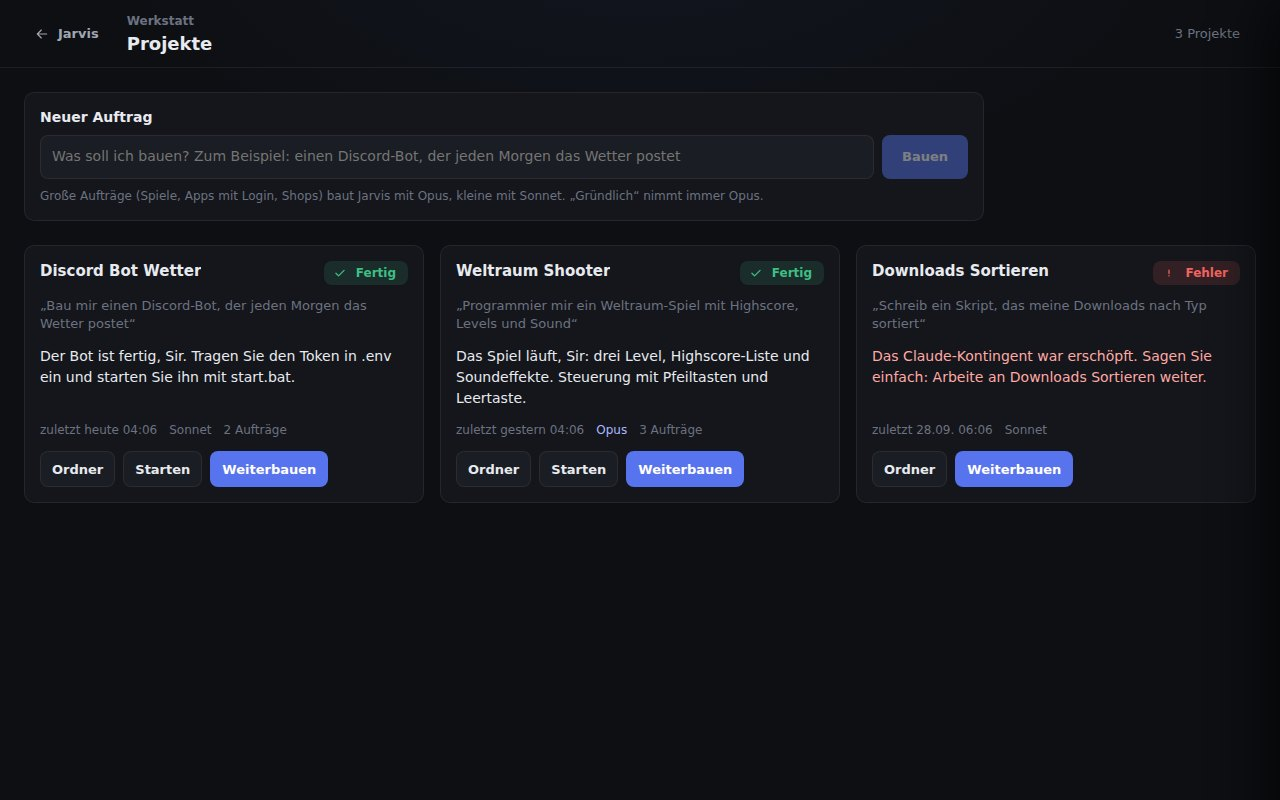
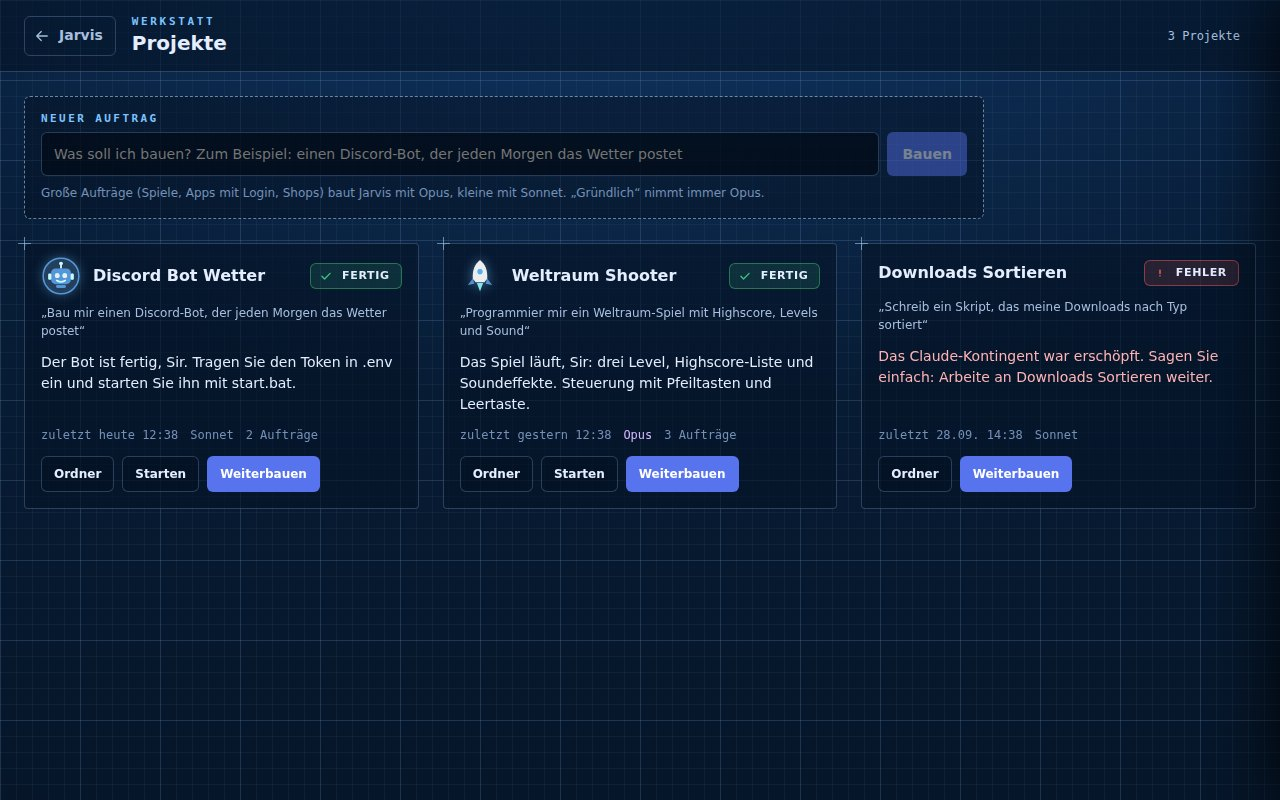
Anleitung, README und Bilder auf dem neuen Stand
- Bilder neu: Hauptfenster ohne die alten Karten Post und Shop, Verbinden
  mit Handy, Alexa und Konnektoren (ohne Discord-Bot), Werkstatt mit dem
  Hologramm, Projekte mit Logos, Einrichtung mit lokaler Stimme.
- Anleitung und README beschreiben die Werkstatt als Blaupause mit Hologramm
  und dem Logo, das die Werkstatt pro Projekt zeichnet.
- Einrichtung: Der letzte Schritt nennt statt des Discord-Bots die
  Konnektoren, und der Stimmen-Schritt duzt wie der Rest der Einrichtung.

Claude-Session: https://claude.ai/code/session_01SmtJ1qc8wnYu9sLYM9z56c

diff --git a/jarvis/gui/web/setup.html b/jarvis/gui/web/setup.html
@@ -195,7 +195,7 @@
                 <span class="key-ico" aria-hidden="true"><svg class="ico" viewBox="0 0 24 24"><rect x="6" y="6" width="12" height="12" rx="2"/><path d="M9 2.5v3.5M15 2.5v3.5M9 18v3.5M15 18v3.5M2.5 9H6M2.5 15H6M18 9h3.5M18 15h3.5"/></svg></span>
                 <span class="key-text">
                   <b>Jarvis-Stimme auf diesem PC</b>
-                  <small>Deutsche Stimme und Spracherkennung laufen ganz auf Ihrem PC: kein Abo, kein Internet nötig, nichts verlässt den PC.</small>
+                  <small>Deutsche Stimme und Spracherkennung laufen ganz auf deinem PC: kein Abo, kein Internet nötig, nichts verlässt den PC.</small>
                 </span>
                 <span class="key-state" id="localState"></span>
               </div>
@@ -330,7 +330,7 @@
         <section class="step" data-step="done" hidden>
           <div class="summary" id="summary"></div>
           <p class="note">Sag „Hey Jarvis“, warte auf den Ton und sprich deinen Befehl. Oder klick auf die Kugel im Jarvis-Fenster. Tippen geht auch.</p>
-          <p class="note">Als Nächstes: Im Jarvis-Fenster oben rechts unter „Verbinden“ koppelst du dein Handy per QR-Code, richtest Alexa ein („Alexa, sag Jarvis, …“) und holst Jarvis' Bot auf deinen Discord-Server.</p>
+          <p class="note">Als Nächstes: Im Jarvis-Fenster oben rechts unter „Verbinden“ koppelst du dein Handy per QR-Code, richtest Alexa ein („Alexa, sag Jarvis, …“) und siehst, welche Konnektoren (Gmail, Kalender, Spotify …) Jarvis über dein Claude-Konto nutzt.</p>
         </section>
       </div>
 

diff --git a/jarvis/gui/web/setup.js b/jarvis/gui/web/setup.js
@@ -606,7 +606,7 @@
     btn.textContent = L.busy ? 'Wird eingerichtet …' : L.error ? 'Nochmal versuchen' : 'Lokal einrichten';
     if (L.error) formMsg('localMsg', 'error', L.error);
     else if (L.busy) formMsg('localMsg', 'info', L.line || 'Lädt …');
-    else if (L.ready) formMsg('localMsg', 'ok', L.active ? 'Jarvis spricht mit der lokalen Stimme.' : 'Bereit. Wählen Sie unten eine Stimme, dann spricht Jarvis damit.');
+    else if (L.ready) formMsg('localMsg', 'ok', L.active ? 'Jarvis spricht mit der lokalen Stimme.' : 'Bereit. Wähl unten eine Stimme, dann spricht Jarvis damit.');
     else formMsg('localMsg', 'info', 'Noch nicht eingerichtet, bei der Installation fehlte wohl das Internet. Einmal klicken (etwa 1,3 GB, 5 bis 15 Minuten), oder einfach warten: Jarvis holt es beim Start von selbst nach.');
     const grid = $('localGrid');
     grid.replaceChildren();

diff --git a/README.md b/README.md
@@ -38,11 +38,11 @@ Handy    → eigene Web-App im WLAN (QR-Code), Alexa → eigener Skill über ntf
 - **Handy-App:** im WLAN per QR-Code koppeln, dann schreiben, diktieren, Schnellaktionen und die Werkstatt verfolgen. Jarvis antwortet auf dem Handy in seiner eigenen Stimme. Mit Tailscale („Sicher von überall“) auch unterwegs, mit Sprechtaste und als installierbare App. Dazu Wake-on-LAN: den PC per Handy einschalten, und Benachrichtigungen über die App ntfy: Erinnerungen und „Aus der Werkstatt“ kommen aufs Handy, wenn du nicht am PC sitzt.
 - **Alexa:** „Alexa, sag Jarvis, er soll Discord öffnen.“ Ein eigener Skill (Von Alexa gehostet), den Jarvis fertig zum Kopieren anbietet. Die Nachrichten laufen verschlüsselt über ntfy.sh, ohne Home Assistant und ohne Router-Einstellungen. Mit Home Assistant zusätzlich Ansagen auf Echos und Licht.
 - **Bildschirm lesen und Programme ohne Maus bedienen:** Texterkennung von Windows (in etwa einer Sekunde) und UI Automation: Knöpfe drücken und Felder ausfüllen, ohne Maus und Tastatur zu nehmen.
-- **Werkstatt für Programmier-Aufträge:** „Bau mir einen Discord-Bot, der …“ läuft im Hintergrund in einem eigenen Projektordner, mit Plan, Tests, `LIESMICH.txt` und `start.bat`. Getestet wird auf einem unsichtbaren zweiten Windows-Desktop (`versteckt.py`), Testfenster poppen also nicht auf. Große Aufträge mit Opus und viel Nachdenken, kleine mit Sonnet. Während der Arbeit kannst du mit Jarvis reden: Wünsche („Mach den Hintergrund blau“) gehen direkt in die laufende Arbeit, Fragen beantwortet er mit Blick auf den Plan, am Ende fragt er, ob er das Ergebnis starten soll. Das Fenster zeigt Plan, Ablauf, Fortschritt und Dateien und alle Projekte als Übersicht mit Starten und Weiterbauen.
+- **Werkstatt für Programmier-Aufträge:** „Bau mir einen Discord-Bot, der …“ läuft im Hintergrund in einem eigenen Projektordner, mit Plan, Tests, `LIESMICH.txt` und `start.bat`. Getestet wird auf einem unsichtbaren zweiten Windows-Desktop (`versteckt.py`), Testfenster poppen also nicht auf. Große Aufträge mit Opus und viel Nachdenken, kleine mit Sonnet. Während der Arbeit kannst du mit Jarvis reden: Wünsche („Mach den Hintergrund blau“) gehen direkt in die laufende Arbeit, Fragen beantwortet er mit Blick auf den Plan, am Ende fragt er, ob er das Ergebnis starten soll. Das Fenster zeigt die Arbeit als Blaupause: Plan, Ablauf, Dateien, Befehle und das Projekt als Hologramm, das sich von unten aufbaut, erst als passendes Drahtmodell, dann als eigenes Logo, das die Werkstatt zeichnet (`logo.svg`). Dazu alle Projekte als Übersicht mit Logo, Starten und Weiterbauen.
 - **Gaming-Modus:** Energieplan Höchstleistung, ausgewählte Programme zu, Jarvis selbst mit niedriger Priorität und ohne Einblendungen, keine Vorschläge.
 - **Schnell:** In der ersten Sprechpause erkennt Jarvis den Satz schon vorab. Ist es ein Sofort-Befehl („Öffne Spotify“), legt er nach knapp einer halben Sekunde Stille los statt nach einer. Claude läuft dauerhaft im Hintergrund (keine Startzeit pro Frage), der erste Satz wird gesprochen, während Claude noch schreibt. Im Protokoll steht pro Befehl eine Tempo-Zeile.
 - **Gespräch ohne Weckwort:** Nach jeder Antwort hört Jarvis 8 Sekunden weiter zu (leiser Ton, Ring um die Kugel). Weiterreden reicht; „Danke“, „Alles klar“, „Tschüss“ oder Stille beenden das Gespräch. „Jarvis“, „Okay Jarvis“ und „Hallo Jarvis“ wecken ihn auch.
-- **Ruhiges, modernes Fenster:** eine ruhige Kugel aus feinen Linien als Jarvis' Gesicht (sie dreht sich langsam, mit der Stimme laufen Wellen hindurch, jede Aktion hat eine eigene Bewegung: Radar beim Suchen, Lichtpunkt bei Nachrichten, Takt bei Musik, Uhrzeiger bei Timern, Bau-Gitter in der Werkstatt; mit der Maus lässt sie sich neigen und drehen), darunter das Gespräch, rechts was heute ansteht, die neueste Post (ein Klick, und Jarvis liest vor), die Auslastung des PCs, der Shop und das Gedächtnis. Keine Sci-Fi-Effekte, eine Akzentfarbe, dunkel.
+- **Ruhiges, modernes Fenster:** eine ruhige Kugel aus feinen Linien als Jarvis' Gesicht (sie dreht sich langsam, mit der Stimme laufen Wellen hindurch, jede Aktion hat eine eigene Bewegung: Radar beim Suchen, Lichtpunkt bei Nachrichten, Takt bei Musik, Uhrzeiger bei Timern, Bau-Gitter in der Werkstatt; mit der Maus lässt sie sich neigen und drehen), darunter das Gespräch, rechts was heute ansteht, die Auslastung des PCs und das Gedächtnis. Keine Sci-Fi-Effekte, eine Akzentfarbe, dunkel. Nur die Werkstatt ist mit Absicht eine Blaupause mit Hologramm.
 - **Installer mit eigenem Fenster:** dieselbe Linienkugel mit Fortschrittsbogen, sechs Schritte mit Häkchen und Restzeit. Holt auf jedem Windows 10 (ab 1809) und 11 alles selbst, ohne Administratorrechte, und sagt bei Problemen klar, was hilft („Nochmal versuchen“, Protokoll).
 - **Grafische Einrichtung**, Selbsttest (`werkzeuge\Selbsttest.bat`) und Protokoll (`logs\jarvis.log`).
 
@@ -150,7 +150,7 @@ jarvis/
   overlay.py desktop.py tray.py autostart.py pc.py homeassistant.py persona.py reminders.py tool.py
   gui/app.py      Fenster (pywebview), Api für die Seite, Ereignis-Brücke
   gui/web/        index.html app.js style.css     Jarvis-Fenster; orb.js zeichnet die Kugel (auch Einrichtung und Handy)
-                  werkstatt.js projekte.js werkstatt.css   Werkstatt als Blaupause, Projekt-Übersicht
+                  werkstatt.js projekte.js werkstatt.css   Werkstatt als Blaupause mit Hologramm, Projekt-Übersicht
                   koppeln.js gedaechtnis.js       Verbinden (Handy, Alexa, Konnektoren), Gedächtnis
                   setup.html setup.js setup.css   Einrichtung (Api: setup_wizard.SetupApi)
                   handy/          die Handy-App (PWA)

diff --git a/ANLEITUNG.md b/ANLEITUNG.md
@@ -256,7 +256,7 @@ Die Regeln: Jarvis spricht nur, wenn du am PC sitzt, nie beim Zocken oder im Vol
 
 Sag zum Beispiel **„Bau mir einen Discord-Bot, der jeden Morgen Hallo sagt“**, **„Programmier mir ein kleines Spiel“** oder **„Schreib mir ein Python-Skript, das meine Downloads sortiert“**.
 
-1. Jarvis sagt „Ich gehe in die Werkstatt“ und das Fenster zeigt den Auftrag: links den Plan, in der Mitte jeden Schritt mit Dauer, rechts den Fortschritt als Ring und die Dateien.
+1. Jarvis sagt „Ich gehe in die Werkstatt“ und das Fenster zeigt den Auftrag als Blaupause: links den Plan, in der Mitte jeden Schritt mit Dauer, rechts das Projekt als Hologramm und die Dateien. Das Hologramm baut sich mit der Arbeit von unten nach oben auf, zuerst als Drahtmodell, das zum Auftrag passt (Roboter für einen Bot, Controller für ein Spiel, Globus für eine Webseite …). Gleich nach dem Plan zeichnet Jarvis ein eigenes Logo für das Projekt (`logo.svg` im Projektordner), ab dann baut sich dieses Logo als Hologramm auf. Ist alles fertig, leuchtet es grün.
 2. Jarvis arbeitet im Hintergrund, und du kannst dabei mit ihm reden:
    - **„Wie weit bist du?“** nennt den aktuellen Schritt.
    - **Wünsche gehen direkt in die laufende Arbeit:** „Mach den Hintergrund blau“, „Nimm lieber Python“, „Füg noch einen Highscore hinzu“. Jarvis sagt „Ich baue das gleich mit ein“, im Ablauf steht dann „Ihr Wunsch: …“.
@@ -264,7 +264,7 @@ Sag zum Beispiel **„Bau mir einen Discord-Bot, der jeden Morgen Hallo sagt“*
 3. Ist er fertig, sagt er es dir und fragt: „Soll ich es gleich starten?“ Ein **„Ja“** genügt. **Ordner öffnen** zeigt das Projekt.
 
 - **Große Aufträge** (Spiele, Apps mit Login, Shops) baut Jarvis mit Opus und viel Nachdenken, kleine mit Sonnet. Sagst du „beste Qualität“, denkt er noch gründlicher.
-- **Alle Projekte auf einen Blick:** oben im Fenster **Werkstatt**, oder „Zeig mir meine Projekte“. Jede Karte zeigt den Stand, **Starten** und **Weiterbauen**.
+- **Alle Projekte auf einen Blick:** oben im Fenster **Werkstatt**, oder „Zeig mir meine Projekte“. Jede Karte zeigt das Logo des Projekts, den Stand, **Starten** und **Weiterbauen**.
 - **Weiter am selben Projekt:** „Arbeite am Discord-Bot weiter: füg einen Befehl hinzu“. Jarvis weiß noch, was er gebaut hat.
 - „Starte das Projekt Würfelspiel“, „Öffne den Ordner vom Discord-Bot“
 - Jedes Projekt hat einen eigenen Ordner unter `%USERPROFILE%\Jarvis-Werkstatt`.
